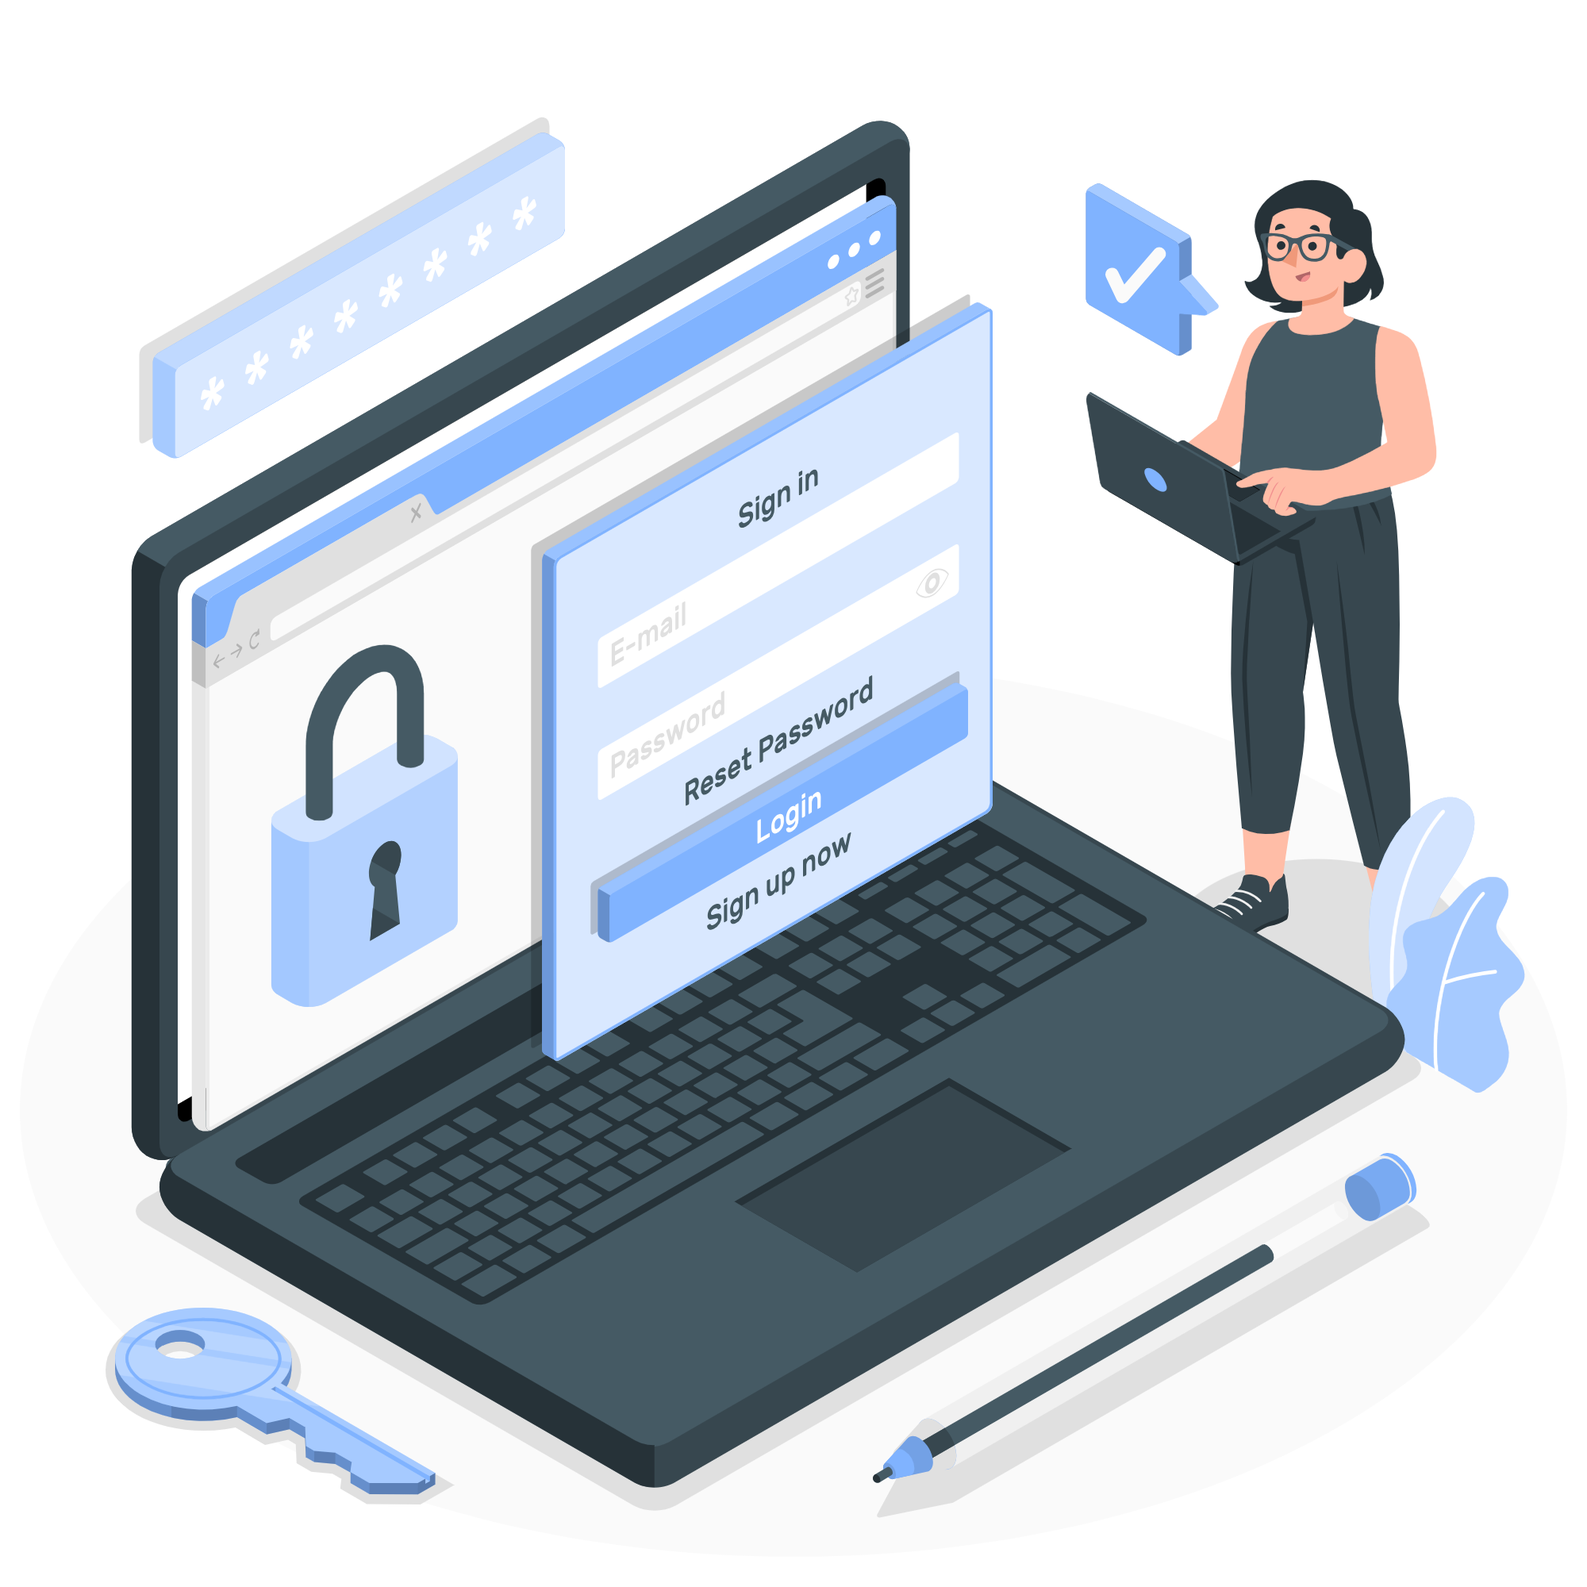
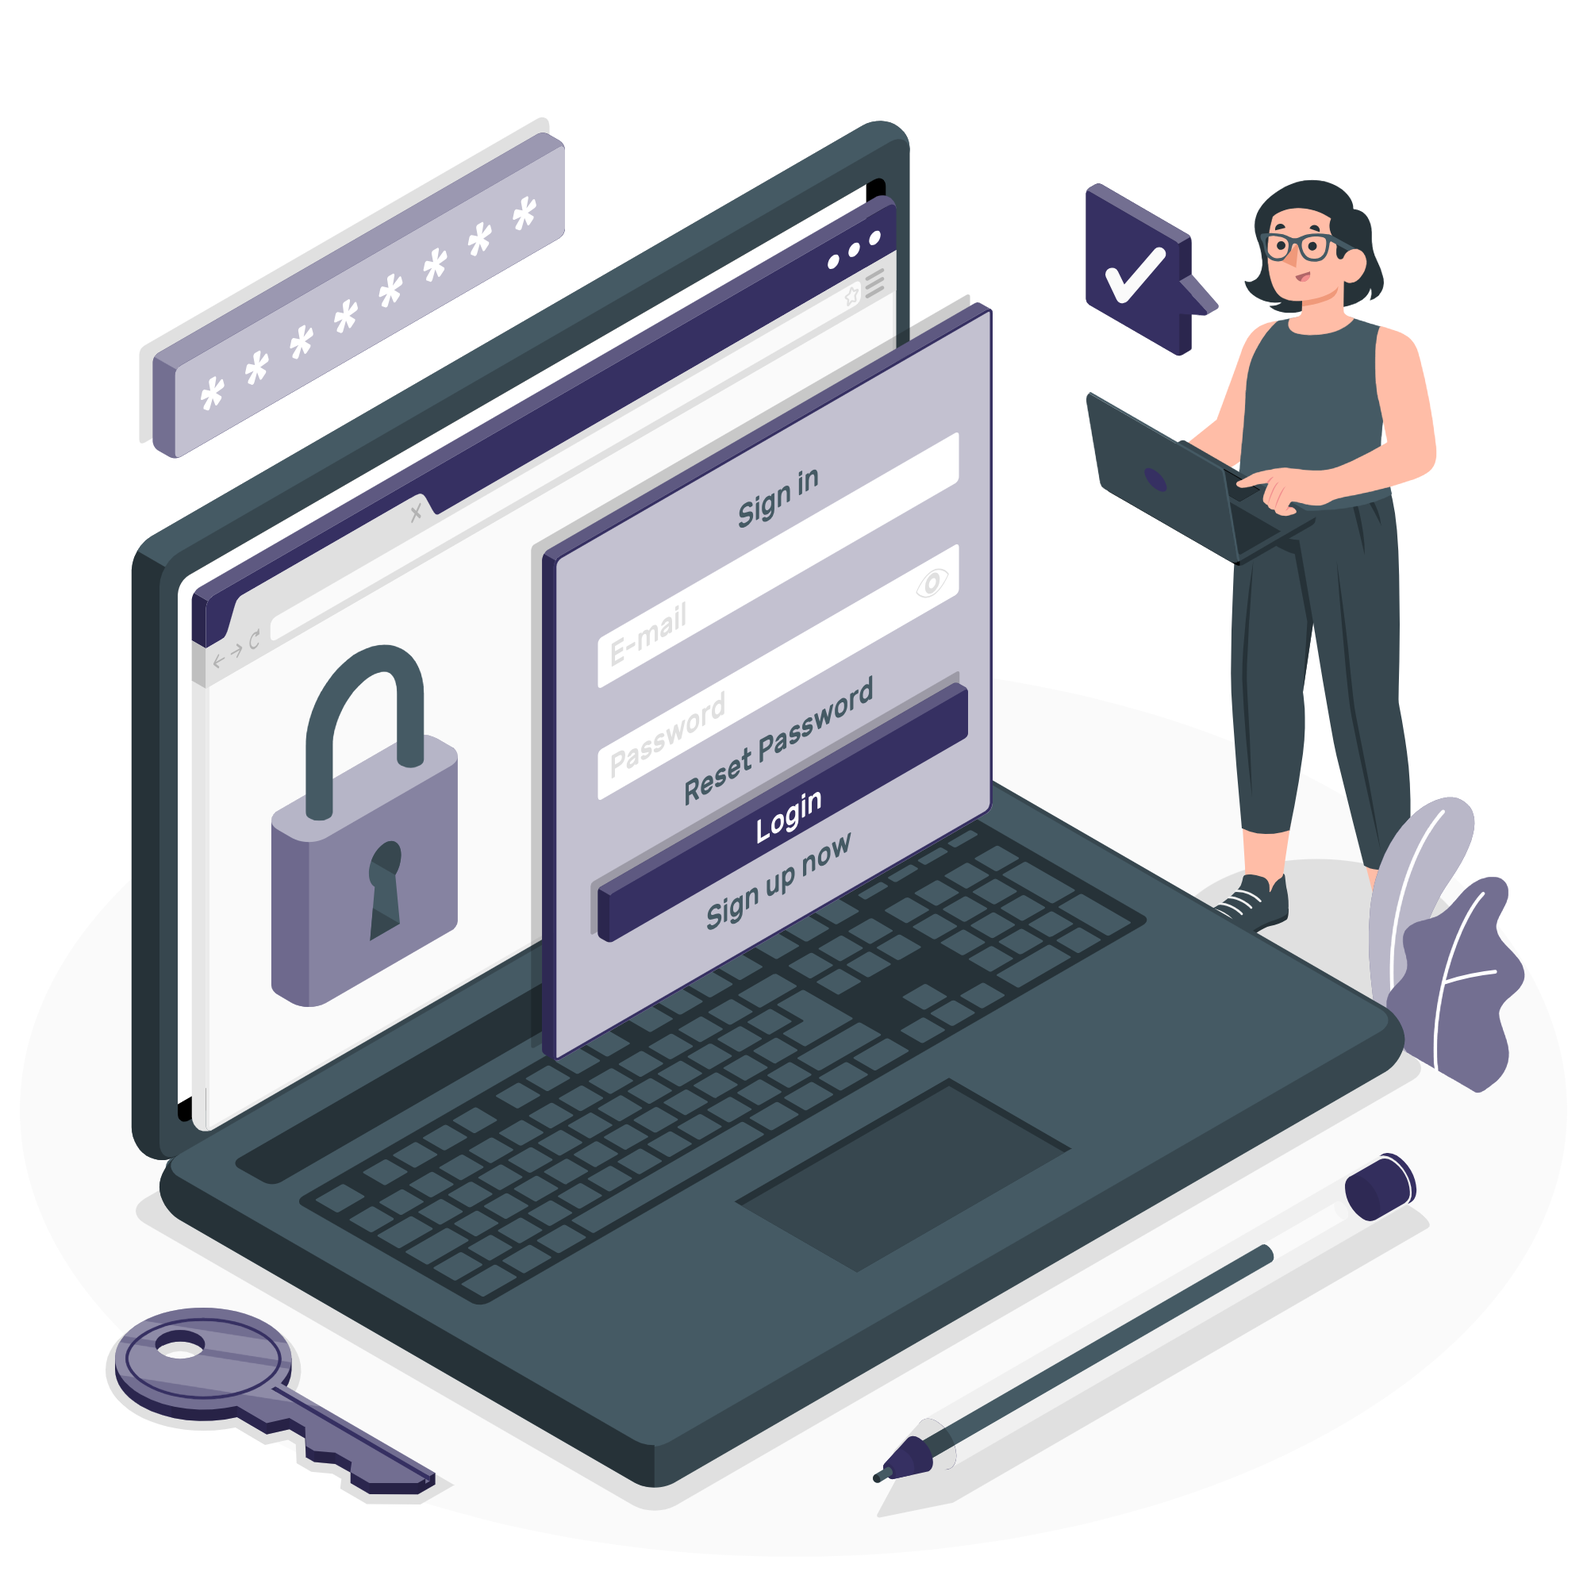
create slideshow for main
create slideshow for main and start product not with s :)

diff --git a/assets/style/style.min.css b/assets/style/style.min.css
@@ -1,1 +1,1 @@
-@font-face{font-family:Poppins-Regular;src:url("/public/fonts/poppins/Poppins-Regular.ttf")}@font-face{font-family:Poppins-Medium;src:url("/public/fonts/poppins/Poppins-Medium.ttf")}@font-face{font-family:Poppins-Bold;src:url("/public/fonts/poppins/Poppins-Bold.ttf")}@font-face{font-family:Poppins-SemiBold;src:url("/public/fonts/poppins/Poppins-SemiBold.ttf")}*{margin:0;padding:0}article,aside,details,figcaption,figure,footer,header,hgroup,menu,nav,section{display:block}body{font-family:"Poppins-Regular";font-size:16px;line-height:1.8;font-weight:normal;background:#f8f9fd;color:gray}ol,ul{list-style:none;padding:0}blockquote,q{quotes:none}blockquote:before,blockquote:after,q:before,q:after{content:"";content:none}table{border-collapse:collapse;border-spacing:0}.image-css{aspect-ratio:1 !important;object-fit:cover !important}.img-thumbnail{max-width:200px;display:block;margin:10px auto}.img{max-width:260px;display:block;margin:10px auto}a{-webkit-transition:.3s all ease;-o-transition:.3s all ease;transition:.3s all ease;color:#80b3ff;text-decoration:none}a:hover,a:focus{text-decoration:none !important;outline:none !important;-webkit-box-shadow:none;box-shadow:none}h1,h2,h3,h4,h5,.h1,.h2,.h3,.h4,.h5{line-height:1.5;font-weight:400;font-family:"Lato",Arial,sans-serif;color:#000}.pop-ups{display:none;position:fixed;left:0;top:0;height:100vh;width:100vw;background-color:rgba(14,13,13,.4196078431);transition:all 1s}.pop-up{background-color:#fff;border-radius:.3rem;box-shadow:.2rem .2rem 1.5rem .001rem;transition:all 1.5s;min-width:170px;box-shadow:0px 10px 34px -15px rgba(0,0,0,.24)}.pop-up-mobile-display{display:none}.active-menu{background-color:#687eff}.active-menu a{color:#fff !important}.non-active-menu:hover{background-color:#98e4ff}.non-active-menu:hover a{color:#687eff !important}.show{display:flex !important}@media(max-width: 860px){.menu-div{display:none}.pop-up-mobile-display{display:block !important}.main-menu-sec div{justify-content:space-between !important}}.spinner{height:40px;width:40px;border:5px solid;border-radius:50%;border-color:#687eff #000 #000 #000;animation:rotate 1.5s linear infinite}@keyframes rotate{to{transform:rotate(365deg)}}#productsContainer{height:86vh;overflow-y:scroll}#productsContainer::-webkit-scrollbar{width:5px}#productsContainer::-webkit-scrollbar-track{box-shadow:0px 10px 34px -15px rgba(0,0,0,.24);border-radius:15px}#productsContainer::-webkit-scrollbar-thumb{background:#98e4ff;border-radius:10px}#productsContainer::-webkit-scrollbar-thumb:hover{background:#80b3ff}.main-menu-sec{box-shadow:0px 10px 34px -15px rgba(0,0,0,.24);padding:.75rem 0;margin:.5rem;border-radius:15px}.main-menu-sec .menu-div{margin:auto 0}.main-menu-sec .menu-div ul{margin:0}.main-menu-sec a{color:#000}.main-menu-sec li{margin:0 1rem;padding:.3rem .75rem;border-radius:15px}.main-menu-sec .non-active-menu-link:hover{transition:all .3s ease;background-color:#687eff}.main-menu-sec .non-active-menu-link:hover a{color:#fff}.main-menu-sec .active-menu-link{background-color:#80b3ff}.main-menu-sec .active-menu-link a{color:#b6fffa}.logo{display:flex}.logo h1{font-size:1.5rem;font-family:Poppins-Bold}.login-section{padding:7em 0}.heading-section{font-size:28px;color:#000}.wrap{width:100%;overflow:hidden;background:#fff;border-radius:5px;-webkit-box-shadow:0px 10px 34px -15px rgba(0,0,0,.24);-moz-box-shadow:0px 10px 34px -15px rgba(0,0,0,.24);box-shadow:0px 10px 34px -15px rgba(0,0,0,.24)}.login-wrap{position:relative;background:#fff h3}.form-group{position:relative}.form-group .label{font-size:12px;text-transform:uppercase;letter-spacing:1px;color:#000;font-weight:700}.form-group a{color:gray}.form-control{height:48px;background:#fff;color:#000;font-size:16px;border-radius:5px;-webkit-box-shadow:none;box-shadow:none;border:1px solid rgba(0,0,0,.2)}.form-control::-webkit-input-placeholder{color:rgba(0,0,0,.2) !important}.form-control::-moz-placeholder{color:rgba(0,0,0,.2) !important}.form-control:-ms-input-placeholder{color:rgba(0,0,0,.2) !important}.form-control:-moz-placeholder{color:rgba(0,0,0,.2) !important}.form-control:focus,.form-control:active{outline:none !important;-webkit-box-shadow:none;box-shadow:none;border:1px solid #80b3ff}.social-media{position:relative;width:100%}.social-media .social-icon{display:block;width:40px;height:40px;background:rgba(0,0,0,0);border:1px solid rgba(0,0,0,.05);font-size:16px;margin-right:5px;border-radius:50%}.social-media .social-icon span{color:gray}.social-media .social-icon:hover,.social-media .social-icon:focus{background:#80b3ff}.social-media .social-icon span:hover,.social-media .social-icon span:focus{color:#fff}.checkbox-wrap{display:block;position:relative;padding-left:30px;margin-bottom:12px;cursor:pointer;font-size:16px;font-weight:500;-webkit-user-select:none;-moz-user-select:none;-ms-user-select:none;user-select:none}.checkbox-wrap input{position:absolute;opacity:0;cursor:pointer;height:0;width:0}.checkmark{position:absolute;top:0;left:0}.checkmark::after{content:"";font-family:"FontAwesome";position:absolute;color:rgba(0,0,0,.1);font-size:20px;margin-top:-4px;-webkit-transition:.3s;-o-transition:.3s;transition:.3s}@media(prefers-reduced-motion: reduce){.checkmark:after{-webkit-transition:none;-o-transition:none;transition:none}}.checkbox-wrap input:checked~.checkmark:after{display:block;content:"";font-family:"FontAwesome";color:rgba(0,0,0,.2)}.checkbox-primary{color:#687eff}.checkbox-primary input:checked~.checkmark:after{color:#687eff}.btn{cursor:pointer;-webkit-box-shadow:none !important;box-shadow:none !important;font-size:15px;padding:10px 20px}.btn:hover,.btn:active,.btn:focus{outline:none}.btn.btn-primary{background:#687eff !important;border:1px solid #687eff !important;color:#fff !important}.btn.bg-primary:hover{border:1px solid #80b3ff;background:rgba(0,0,0,0);color:#80b3ff}.btn.btn-primary.btn-outline-primary{border:1px solid #687eff;background:rgba(0,0,0,0);color:#687eff}.btn.btn-primary.btn-outline-primary:hover{border:1px solid rgba(0,0,0,0);background:#80b3ff;color:#fff}.login-error-hidden{opacity:0;display:none}.login-error{display:block;opacity:1;color:#98e4ff}.login-error span.rounded-circle{background-color:#98e4ff}.product-sec{transition:all .3s ease}.product-div{border-radius:15px;box-shadow:0px 10px 34px -15px rgba(0,0,0,.24);margin:.5rem auto;padding:1.5rem;align-items:center;min-height:400px;width:100%;max-width:360px;color:#000}.product-div a{color:#fff;background-color:#80b3ff;padding:.5rem 1rem;border-radius:15px}.product-div a:hover{background-color:#687eff;transition:all .3s ease}.category-container{border-radius:15px;height:86vh;overflow-y:scroll;box-shadow:0px 10px 34px -15px rgba(0,0,0,.24);transition:all .3s ease;margin:.5rem 0}.category-container::-webkit-scrollbar{width:5px}.category-container::-webkit-scrollbar-track{box-shadow:0px 10px 34px -15px rgba(0,0,0,.24);border-radius:15px}.category-container::-webkit-scrollbar-thumb{background:#98e4ff;border-radius:10px}.category-container::-webkit-scrollbar-thumb:hover{background:#80b3ff}.category-container ul li{margin:.5rem;border-radius:15px;padding:.5rem}.category-container li a{padding:0 1rem;color:#000}.category-container .active-products{border-radius:15px;background-color:#687eff}.category-container .active-products a{color:#fff}.category-container .non-active-products:hover{background-color:#b6fffa;transition:all .3s ease}.category-container .non-active-products:hover a{color:gray}@media(max-width: 400px){.category-container a{padding:0 !important}.mobile-flex-column{flex-direction:column}}/*# sourceMappingURL=style.min.css.map */
+@font-face{font-family:Poppins-Regular;src:url("/public/fonts/poppins/Poppins-Regular.ttf")}@font-face{font-family:Poppins-Medium;src:url("/public/fonts/poppins/Poppins-Medium.ttf")}@font-face{font-family:Poppins-Bold;src:url("/public/fonts/poppins/Poppins-Bold.ttf")}@font-face{font-family:Poppins-SemiBold;src:url("/public/fonts/poppins/Poppins-SemiBold.ttf")}*{margin:0;padding:0}article,aside,details,figcaption,figure,footer,header,hgroup,menu,nav,section{display:block}body{font-family:"Poppins-Regular";font-size:16px;line-height:1.8;font-weight:normal;background:#f8f9fd;color:gray}ol,ul{list-style:none;padding:0}blockquote,q{quotes:none}blockquote:before,blockquote:after,q:before,q:after{content:"";content:none}table{border-collapse:collapse;border-spacing:0}.image-css{aspect-ratio:1 !important;object-fit:cover !important}.img-thumbnail{max-width:200px;display:block;margin:10px auto}.img{max-width:260px;display:block;margin:10px auto}a{-webkit-transition:.3s all ease;-o-transition:.3s all ease;transition:.3s all ease;color:#80b3ff;text-decoration:none}a:hover,a:focus{text-decoration:none !important;outline:none !important;-webkit-box-shadow:none;box-shadow:none}h1,h2,h3,h4,h5,.h1,.h2,.h3,.h4,.h5{line-height:1.5;font-weight:400;font-family:"Lato",Arial,sans-serif;color:#000}.pop-ups{display:none;position:fixed;left:0;top:0;height:100vh;width:100vw;background-color:rgba(14,13,13,.4196078431);transition:all 1s}.pop-up{background-color:#fff;border-radius:.3rem;box-shadow:.2rem .2rem 1.5rem .001rem;transition:all 1.5s;min-width:170px;box-shadow:0px 10px 34px -15px rgba(0,0,0,.24)}.pop-up-mobile-display{display:none}.active-menu{background-color:#363062}.active-menu a{color:#fff !important}.non-active-menu:hover{background-color:#818fb4}.non-active-menu:hover a{color:#363062 !important}.show{display:flex !important}@media(max-width: 860px){.menu-div{display:none}.pop-up-mobile-display{display:block !important}.main-menu-sec div{justify-content:space-between !important}}.spinner{height:40px;width:40px;border:5px solid;border-radius:50%;border-color:#435585 #000 #000 #000;animation:rotate 1.5s linear infinite}@keyframes rotate{to{transform:rotate(365deg)}}#productsContainer{height:86vh;overflow-y:scroll}#productsContainer::-webkit-scrollbar{width:5px}#productsContainer::-webkit-scrollbar-track{box-shadow:0px 10px 34px -15px rgba(0,0,0,.24);border-radius:15px}#productsContainer::-webkit-scrollbar-thumb{background:#818fb4;border-radius:10px}#productsContainer::-webkit-scrollbar-thumb:hover{background:#435585}.main-menu-sec{box-shadow:0px 10px 34px -15px rgba(0,0,0,.24);padding:.75rem 0;margin:.5rem;border-radius:15px}.main-menu-sec .menu-div{margin:auto 0}.main-menu-sec .menu-div ul{margin:0}.main-menu-sec a{color:#000}.main-menu-sec li{margin:0 1rem;padding:.3rem .75rem;border-radius:15px}.main-menu-sec .non-active-menu-link:hover{transition:all .3s ease;background-color:#363062}.main-menu-sec .non-active-menu-link:hover a{color:#fff}.main-menu-sec .active-menu-link{background-color:#435585}.main-menu-sec .active-menu-link a{color:#f5e8c7}.logo{display:flex}.logo h1{font-size:1.5rem;font-family:Poppins-Bold}.slideshow-container{height:86vh}.slideshow-container .fade{transition:all .3s ease;animation:fade 3s ease}@keyframes fade{from{opacity:.8}to{opacity:1}}.login-section{padding:7em 0}.heading-section{font-size:28px;color:#000}.wrap{width:100%;overflow:hidden;background:#fff;border-radius:5px;-webkit-box-shadow:0px 10px 34px -15px rgba(0,0,0,.24);-moz-box-shadow:0px 10px 34px -15px rgba(0,0,0,.24);box-shadow:0px 10px 34px -15px rgba(0,0,0,.24)}.login-wrap{position:relative;background:#fff h3}.form-group{position:relative}.form-group .label{font-size:12px;text-transform:uppercase;letter-spacing:1px;color:#000;font-weight:700}.form-group a{color:gray}.form-control{height:48px;background:#fff;color:#000;font-size:16px;border-radius:5px;-webkit-box-shadow:none;box-shadow:none;border:1px solid rgba(0,0,0,.2)}.form-control::-webkit-input-placeholder{color:rgba(0,0,0,.2) !important}.form-control::-moz-placeholder{color:rgba(0,0,0,.2) !important}.form-control:-ms-input-placeholder{color:rgba(0,0,0,.2) !important}.form-control:-moz-placeholder{color:rgba(0,0,0,.2) !important}.form-control:focus,.form-control:active{outline:none !important;-webkit-box-shadow:none;box-shadow:none;border:1px solid #435585}.social-media{position:relative;width:100%}.social-media .social-icon{display:block;width:40px;height:40px;background:rgba(0,0,0,0);border:1px solid rgba(0,0,0,.05);font-size:16px;margin-right:5px;border-radius:50%}.social-media .social-icon span{color:gray}.social-media .social-icon:hover,.social-media .social-icon:focus{background:#435585}.social-media .social-icon span:hover,.social-media .social-icon span:focus{color:#fff}.checkbox-wrap{display:block;position:relative;padding-left:30px;margin-bottom:12px;cursor:pointer;font-size:16px;font-weight:500;-webkit-user-select:none;-moz-user-select:none;-ms-user-select:none;user-select:none}.checkbox-wrap input{position:absolute;opacity:0;cursor:pointer;height:0;width:0}.checkmark{position:absolute;top:0;left:0}.checkmark::after{content:"";font-family:"FontAwesome";position:absolute;color:rgba(0,0,0,.1);font-size:20px;margin-top:-4px;-webkit-transition:.3s;-o-transition:.3s;transition:.3s}@media(prefers-reduced-motion: reduce){.checkmark:after{-webkit-transition:none;-o-transition:none;transition:none}}.checkbox-wrap input:checked~.checkmark:after{display:block;content:"";font-family:"FontAwesome";color:rgba(0,0,0,.2)}.checkbox-primary{color:#363062}.checkbox-primary input:checked~.checkmark:after{color:#363062}.btn{cursor:pointer;-webkit-box-shadow:none !important;box-shadow:none !important;font-size:15px;padding:10px 20px}.btn:hover,.btn:active,.btn:focus{outline:none}.btn.btn-primary{background:#363062 !important;border:1px solid #363062 !important;color:#fff !important}.btn.bg-primary:hover{border:1px solid #435585;background:rgba(0,0,0,0);color:#435585}.btn.btn-primary.btn-outline-primary{border:1px solid #363062;background:rgba(0,0,0,0);color:#363062}.btn.btn-primary.btn-outline-primary:hover{border:1px solid rgba(0,0,0,0);background:#435585;color:#fff}.login-error-hidden{opacity:0;display:none}.login-error{display:block;opacity:1;color:#818fb4}.login-error span.rounded-circle{background-color:#818fb4}.product-sec{transition:all .3s ease}.product-div{border-radius:15px;box-shadow:0px 10px 34px -15px rgba(0,0,0,.24);margin:.5rem auto;padding:1.5rem;align-items:center;min-height:400px;width:100%;max-width:360px;color:#000}.product-div a{color:#fff;background-color:#435585;padding:.5rem 1rem;border-radius:15px}.product-div a:hover{background-color:#363062;transition:all .3s ease}.category-container{border-radius:15px;height:86vh;overflow-y:scroll;box-shadow:0px 10px 34px -15px rgba(0,0,0,.24);transition:all .3s ease;margin:.5rem 0}.category-container::-webkit-scrollbar{width:5px}.category-container::-webkit-scrollbar-track{box-shadow:0px 10px 34px -15px rgba(0,0,0,.24);border-radius:15px}.category-container::-webkit-scrollbar-thumb{background:#818fb4;border-radius:10px}.category-container::-webkit-scrollbar-thumb:hover{background:#435585}.category-container ul li{margin:.5rem;border-radius:15px;padding:.5rem}.category-container li a{padding:0 1rem;color:#000}.category-container .active-products{border-radius:15px;background-color:#363062}.category-container .active-products a{color:#fff}.category-container .non-active-products:hover{background-color:#f5e8c7;transition:all .3s ease}.category-container .non-active-products:hover a{color:gray}@media(max-width: 400px){.category-container a{padding:0 !important}.mobile-flex-column{flex-direction:column}}/*# sourceMappingURL=style.min.css.map */

diff --git a/index.html b/index.html
@@ -84,6 +84,26 @@
       </div>
     </div>
   </section>
-  <div class="spinner" id="spinner"></div>
+  <!-- <div class="spinner" id="spinner"></div> -->
+  <div class="slideshow-container">
+
+    <div class="mySlides fade">
+      <img src="/public/images/general/shopping_slide_1.jpg" class="w-100">
+    </div>
+    
+    <div class="mySlides fade">
+      <img src="/public/images/general/shopping_slide_2.jpg" class="w-100">
+    </div>
+    
+    <div class="mySlides fade">
+      <img src="/public/images/general/shopping_slide_3.jpg" class="w-100">
+    </div>
+    <div class="text-center dot-container">
+      <span class="dot"></span> 
+      <span class="dot"></span> 
+      <span class="dot"></span> 
+    </div>
+    </div>
+    
 </body>
 </html>

diff --git a/assets/js/index.js b/assets/js/index.js
@@ -1,0 +1,19 @@
+let slideIndex = 0;
+showSlides();
+
+function showSlides() {
+  let i;
+  let slides = document.getElementsByClassName("mySlides");
+  let dots = document.getElementsByClassName("dot");
+  for (i = 0; i < slides.length; i++) {
+    slides[i].style.display = "none";  
+  }
+  slideIndex++;
+  if (slideIndex > slides.length) {slideIndex = 1}    
+  for (i = 0; i < dots.length; i++) {
+    dots[i].className = dots[i].className.replace(" active", "");
+  }
+  slides[slideIndex-1].style.display = "block";  
+  dots[slideIndex-1].className += " active";
+  setTimeout(showSlides, 3000); // Change image every 2 seconds
+}

diff --git a/assets/js/products.js b/assets/js/products.js
@@ -18,7 +18,7 @@ const productsContainer = document.querySelector('#productsContainer');
                     </div>
                     <p>Brand: ${el.brand}</p>
                     <div class="w-100 text-center my-3">
-                        <a href="#">read more</a>
+                        <a href="product.html" id="${el.id}">read more</a>
                     </div>
                 </div>
             </div>

diff --git a/assets/sass/base/_variable.scss b/assets/sass/base/_variable.scss
@@ -1,8 +1,8 @@
 $clr--dark:#000;
 $clr--white: #fff;
-$clr--primary: #687eff;
-$clr--secondary: #80b3ff;
-$clr--third: #98E4FF;
-$clr--forth: #B6FFFA;
+$clr--primary: #363062;
+$clr--secondary: #435585;
+$clr--third: #818FB4;
+$clr--forth: #F5E8C7;
 $clr--gray: #808080;
 $box--shadow: 0px 10px 34px -15px rgba(0, 0, 0, 0.24);

diff --git a/assets/sass/components/_spinner.scss b/assets/sass/components/_spinner.scss
@@ -3,7 +3,7 @@
     width: 40px;
     border: 5px solid;
     border-radius: 50%;
-    border-color: $clr--primary $clr--dark $clr--dark $clr--dark;
+    border-color: $clr--secondary $clr--dark $clr--dark $clr--dark;
     animation: rotate 1.5s linear infinite;
 }
 @keyframes rotate {

diff --git a/assets/sass/pages/_index.scss b/assets/sass/pages/_index.scss
@@ -38,3 +38,20 @@
     font-family: Poppins-Bold;
   }
 }
+
+.slideshow-container{
+  height: 86vh;
+  
+  /* Fading animation */
+  .fade {
+    transition: all 0.3s ease;
+    animation: fade 3s ease;
+    }
+}
+
+
+
+@keyframes fade {
+  from {opacity: .8} 
+  to {opacity: 1}
+}

diff --git a/product.html b/product.html
@@ -1,0 +1,11 @@
+<!DOCTYPE html>
+<html lang="en">
+<head>
+    <meta charset="UTF-8">
+    <meta name="viewport" content="width=device-width, initial-scale=1.0">
+    <title>Document</title>
+</head>
+<body>
+    <h1>Hi</h1>
+</body>
+</html>

diff --git a/assets/sass/components/_prouduct-container.scss b/assets/sass/components/_prouduct-container.scss
@@ -5,6 +5,7 @@
     /* width */
     &::-webkit-scrollbar {
         width: 5px;
+        // height: 10px;
     }
     
     /* Track */
